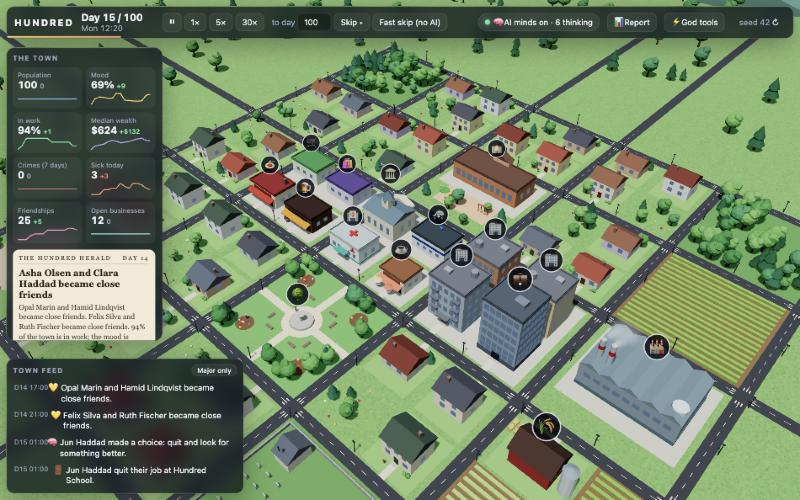
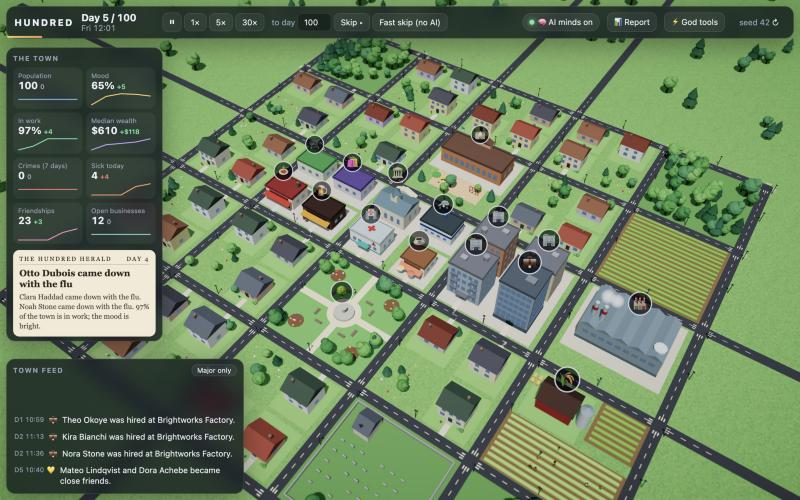
Lighting: fix flicker (smoothed windows, stable shadows, no z-fighting); add bloom, tilt-shift and vignette with a graphics toggle

diff --git a/src/render/scene.ts b/src/render/scene.ts
@@ -1,7 +1,40 @@
 // Renderer, lighting and the day/night cycle. Reads sim state, never writes it.
 import * as THREE from 'three';
+import { EffectComposer } from 'three/examples/jsm/postprocessing/EffectComposer.js';
+import { OutputPass } from 'three/examples/jsm/postprocessing/OutputPass.js';
+import { RenderPass } from 'three/examples/jsm/postprocessing/RenderPass.js';
+import { ShaderPass } from 'three/examples/jsm/postprocessing/ShaderPass.js';
+import { UnrealBloomPass } from 'three/examples/jsm/postprocessing/UnrealBloomPass.js';
 import type { Building, Sim, World } from '../sim/types';
 import { type City, buildCity } from './city';
+
+// Final grade: miniature-style tilt-shift when zoomed out, plus a soft vignette. Runs on linear
+// HDR colour just before tone mapping.
+const GradeShader = {
+  uniforms: { tDiffuse: { value: null as THREE.Texture | null }, resolution: { value: new THREE.Vector2(1, 1) }, tilt: { value: 0 }, vignette: { value: 0.3 } },
+  vertexShader: 'varying vec2 vUv; void main() { vUv = uv; gl_Position = projectionMatrix * modelViewMatrix * vec4(position, 1.0); }',
+  fragmentShader: `
+    uniform sampler2D tDiffuse; uniform vec2 resolution; uniform float tilt; uniform float vignette;
+    varying vec2 vUv;
+    void main() {
+      float band = smoothstep(0.14, 0.62, abs(vUv.y - 0.52));
+      float r = tilt * band * 5.5;
+      vec3 c = texture2D(tDiffuse, vUv).rgb;
+      if (r > 0.08) {
+        vec3 sum = c; float w = 1.0;
+        for (int i = 0; i < 12; i++) {
+          float a = float(i) * 2.39996;
+          float d = sqrt((float(i) + 0.5) / 12.0);
+          vec2 o = vec2(cos(a), sin(a)) * d * r / resolution;
+          sum += texture2D(tDiffuse, vUv + o).rgb; w += 1.0;
+        }
+        c = sum / w;
+      }
+      vec2 q = vUv - 0.5;
+      c *= 1.0 - vignette * dot(q, q) * 2.4;
+      gl_FragColor = vec4(c, 1.0);
+    }`,
+};
 
 interface Key { h: number; sky: number; fog: number; sun: number; sunI: number; hemiI: number; ground: number; }
 // Keyframes across the day. Hours wrap at 24.
@@ -25,7 +58,14 @@ export interface View {
   /** 0 in full daylight, 1 at night. */
   night: number;
   setTime(hourFloat: number, focus: THREE.Vector3): void;
+  /** Decide which windows should be lit (a few times a second). */
   updateWindows(sim: Sim): void;
+  /** Fade windows towards their targets (every frame). */
+  animateWindows(dt: number): void;
+  /** Draw the frame. `camDist` drives the tilt-shift amount. */
+  render(camDist: number): void;
+  fx: boolean;
+  setFx(on: boolean): void;
   updateSmoke(dt: number, active: boolean): void;
   /** Swap in a freshly generated town (new seed). */
   loadWorld(world: World): void;
@@ -49,11 +89,13 @@ export function createView(canvas: HTMLCanvasElement, world: World): View {
   scene.add(hemi);
   const sun = new THREE.DirectionalLight(0xffffff, 3);
   sun.castShadow = true;
-  sun.shadow.mapSize.set(2048, 2048);
+  // The shadow frustum covers the whole town and never follows the camera. A frustum that
+  // moves without snapping to shadow-map texels makes shadow edges crawl and shimmer.
+  sun.shadow.mapSize.set(4096, 4096);
   const sc = sun.shadow.camera;
-  sc.left = -46; sc.right = 46; sc.top = 46; sc.bottom = -46; sc.near = 10; sc.far = 220;
-  sun.shadow.bias = -0.0006;
-  sun.shadow.normalBias = 0.04;
+  sc.left = -54; sc.right = 54; sc.top = 54; sc.bottom = -54; sc.near = 10; sc.far = 260;
+  sun.shadow.bias = -0.0004;
+  sun.shadow.normalBias = 0.05;
   scene.add(sun, sun.target);
 
   let city = buildCity(world);
@@ -77,6 +119,8 @@ export function createView(canvas: HTMLCanvasElement, world: World): View {
     return m;
   };
   const sunDisc = disc(0xfff3c4, 9), moonDisc = disc(0xdfe6ff, 6);
+  (sunDisc.material as THREE.MeshBasicMaterial).color.multiplyScalar(2.4); // above 1 so bloom picks them up
+  (moonDisc.material as THREE.MeshBasicMaterial).color.multiplyScalar(1.6);
 
   // Factory smoke: a small pool of soft sprites.
   const smokeTex = (() => {
@@ -95,13 +139,26 @@ export function createView(canvas: HTMLCanvasElement, world: World): View {
     smoke.push({ s, age: Math.random() * 6, life: 6, src: i % Math.max(1, city.smokeAt.length) });
   }
 
+  // Post-processing: multisampled HDR target -> bloom -> grade -> tone mapping and sRGB output.
+  const target = new THREE.WebGLRenderTarget(1, 1, { type: THREE.HalfFloatType, samples: 4 });
+  const composer = new EffectComposer(renderer, target);
+  composer.addPass(new RenderPass(scene, camera));
+  const bloom = new UnrealBloomPass(new THREE.Vector2(512, 512), 0.4, 0.55, 1.05);
+  composer.addPass(bloom);
+  const grade = new ShaderPass(GradeShader);
+  composer.addPass(grade);
+  composer.addPass(new OutputPass());
+
   const cA = new THREE.Color(), cB = new THREE.Color();
   const lerpHex = (a: number, b: number, t: number, into: THREE.Color) => into.copy(cA.set(a)).lerp(cB.set(b), t);
   const lit = new THREE.Color(), unlit = new THREE.Color(0x2b3a4d), glass = new THREE.Color(0x5d7f9c), tmp = new THREE.Color();
   const occupied = new Uint8Array(256);
+  const occEma = new Float32Array(256); // smoothed occupancy, so a person walking past does not toggle a window
+  let winTarget = new Float32Array(0), winBright = new Float32Array(0), lastWinNight = -1;
+  const darkC = new THREE.Color(), litC = new THREE.Color();
 
   const view: View = {
-    renderer, scene, camera, city, night: 0,
+    renderer, scene, camera, city, night: 0, fx: true,
     setTime(h, focus) {
       let i = 0;
       while (i < KEYS.length - 2 && h >= (KEYS[i + 1] as Key).h) i++;
@@ -121,8 +178,9 @@ export function createView(canvas: HTMLCanvasElement, world: World): View {
       const arc = isDay ? dayT : ((h + 24 - 19.5) % 24) / 10.5;
       const ang = arc * Math.PI;
       const dx = Math.cos(ang) * 0.85, dy = Math.max(0.16, Math.sin(ang)), dz = 0.45;
-      sun.position.set(focus.x + dx * 110, dy * 110, focus.z + dz * 110);
-      sun.target.position.set(focus.x, 0, focus.z);
+      void focus;
+      sun.position.set(dx * 110, dy * 110, dz * 110);
+      sun.target.position.set(0, 0, 0);
       const far = 380;
       (isDay ? sunDisc : moonDisc).position.set(camera.position.x + dx * far, Math.sin(ang) * far * 0.8 - 20, camera.position.z + dz * far);
       sunDisc.visible = isDay; moonDisc.visible = !isDay;
@@ -131,29 +189,61 @@ export function createView(canvas: HTMLCanvasElement, world: World): View {
       view.night = night;
       (stars.material as THREE.PointsMaterial).opacity = Math.max(0, night - 0.3) * 1.3;
       stars.position.copy(camera.position);
-      (city.lampGlow.material as THREE.MeshBasicMaterial).opacity = night * 0.55;
-      (city.lampBulbs.material as THREE.MeshBasicMaterial).color.setHex(night > 0.25 ? 0xffe9b0 : 0x6a6f78);
+      (city.lampGlow.material as THREE.MeshBasicMaterial).opacity = night * 0.42;
+      // Lamp bulbs ramp up smoothly (no hard switch) and go above 1 so they bloom.
+      const lamp = Math.min(1, Math.max(0, (night - 0.15) / 0.5));
+      (city.lampBulbs.material as THREE.MeshBasicMaterial).color.setHex(0x6a6f78).lerp(cA.set(0xffe9b0).multiplyScalar(4), lamp);
+      bloom.strength = 0.14 + night * 0.5;
       renderer.toneMappingExposure = 1.0 + night * 0.25;
     },
     updateWindows(s) {
-      // A building's windows glow when someone is inside after dark.
+      // Which windows want to be lit. Occupancy is smoothed and each window has hysteresis, so
+      // lights come on gradually through dusk and do not flicker as people move around.
       occupied.fill(0);
       for (const a of s.agents) if (a.status === 'active' && a.tripFrom < 0 && a.action !== 'sleep') occupied[a.at] = Math.min(255, (occupied[a.at] as number) + 1);
+      for (let b = 0; b < occEma.length; b++) occEma[b] = (occEma[b] as number) + ((occupied[b] as number) - (occEma[b] as number)) * 0.2;
       const n = view.night;
       const w = city.windows;
+      if (winTarget.length !== w.count) { winTarget = new Float32Array(w.count); winBright = new Float32Array(w.count); lastWinNight = -1; }
       for (let i = 0; i < w.count; i++) {
         const b = city.windowBuilding[i] as number;
         const seed = city.windowSeed[i] as number;
-        const people = occupied[b] as number;
+        const people = occEma[b] as number;
         const kind = (s.world.buildings[b] as Building).kind;
-        const share = people === 0 ? 0 : kind === 'house' ? 0.75 : Math.min(0.9, 0.25 + people * 0.09);
-        if (n > 0.2 && seed < share) {
-          lit.setHex(seed * 7 % 1 < 0.2 ? 0xfff1cf : 0xffcf7a);
-          w.setColorAt(i, tmp.copy(glass).lerp(lit, Math.min(1, n * 1.4)));
-        } else w.setColorAt(i, tmp.copy(glass).lerp(unlit, 0.35 + n * 0.65));
+        const share = people < 0.15 ? 0 : kind === 'house' ? 0.75 : Math.min(0.9, 0.25 + people * 0.09);
+        const onset = 0.2 + ((seed * 13.7) % 1) * 0.6; // windows light at different moments of dusk
+        const was = (winTarget[i] as number) > 0.5;
+        winTarget[i] = n > onset && seed < share + (was ? 0.1 : 0) ? 1 : 0;
+      }
+    },
+    animateWindows(dt) {
+      const w = city.windows;
+      if (winTarget.length !== w.count) return;
+      const n = view.night;
+      const k = Math.min(1, dt * 2.2);
+      let moving = Math.abs(n - lastWinNight) > 0.004;
+      for (let i = 0; i < w.count; i++) {
+        const d = (winTarget[i] as number) - (winBright[i] as number);
+        if (Math.abs(d) > 0.002) { winBright[i] = (winBright[i] as number) + d * k; moving = true; }
+        else if (d !== 0) { winBright[i] = winTarget[i] as number; moving = true; }
+      }
+      if (!moving) return;
+      lastWinNight = n;
+      darkC.copy(glass).lerp(unlit, 0.35 + n * 0.65);
+      for (let i = 0; i < w.count; i++) {
+        const br = winBright[i] as number;
+        if (br < 0.003) { w.setColorAt(i, darkC); continue; }
+        litC.setHex(((city.windowSeed[i] as number) * 7) % 1 < 0.2 ? 0xfff1cf : 0xffcf7a);
+        w.setColorAt(i, tmp.copy(darkC).lerp(litC, br).multiplyScalar(1 + br * 1.05)); // above 1 so lit windows bloom
       }
       if (w.instanceColor) w.instanceColor.needsUpdate = true;
     },
+    render(camDist) {
+      if (!view.fx) { renderer.render(scene, camera); return; }
+      grade.uniforms.tilt!.value = THREE.MathUtils.smoothstep(camDist, 30, 95) * 0.85;
+      composer.render();
+    },
+    setFx(on) { view.fx = on; },
     updateSmoke(dt, active) {
       if (city.smokeAt.length === 0) return;
       for (const p of smoke) {
@@ -188,6 +278,9 @@ export function createView(canvas: HTMLCanvasElement, world: World): View {
     resize() {
       const w = canvas.clientWidth, h = canvas.clientHeight;
       renderer.setSize(w, h, false);
+      composer.setSize(w, h);
+      const buf = renderer.getDrawingBufferSize(new THREE.Vector2());
+      grade.uniforms.resolution!.value.copy(buf);
       camera.aspect = w / Math.max(1, h);
       camera.updateProjectionMatrix();
     },

diff --git a/src/ui/ui.ts b/src/ui/ui.ts
@@ -12,6 +12,8 @@ import { describeAction, intentionText, moodEmoji } from './describe';
 export interface App {
   sim: Sim;
   speed: number;
+  fx: boolean;
+  setFx(on: boolean): void;
   skipping: boolean;
   selected: number;
   selectedBuilding: number;
@@ -301,6 +303,8 @@ export function createUI(root: HTMLElement, app: App): UI {
         <button data-g="flu">🦠 Flu outbreak<small>A dozen people fall ill</small></button>
         <button data-g="police">🚓 Double the police<small>More arrests, fewer escapes</small></button>
       </div>
+      <h3 style="margin-top:14px">Graphics</h3>
+      <div class="tools"><button data-g="fx">✨ Bloom &amp; tilt-shift: <b>${app.fx ? 'on' : 'off'}</b><small>Turn off on slower GPUs</small></button></div>
       <h3 style="margin-top:14px">AI minds</h3>
       <div class="kv"><span>Model calls per sim day</span><b class="num" id="bud-v">${app.sim.budget}</b></div>
       <input type="range" id="bud" min="0" max="${CFG.budgetMax}" value="${app.sim.budget}" />
@@ -315,6 +319,7 @@ export function createUI(root: HTMLElement, app: App): UI {
     else if (g === 'stimulus') godStimulus(sim);
     else if (g === 'flu') godFluOutbreak(sim);
     else if (g === 'police') godDoublePolice(sim);
+    else if (g === 'fx') { app.setFx(!app.fx); renderGod(); }
   });
   god.addEventListener('input', (e) => {
     const t = e.target as HTMLInputElement;

diff --git a/src/render/city.ts b/src/render/city.ts
@@ -121,7 +121,7 @@ export function buildCity(world: World): City {
   /** Window on a wall of the current building. side: 0 front(+z) 1 back 2 right(+x) 3 left. */
   const win = (building: number, side: number, along: number, y: number, depth: number, w: number, h: number) => {
     const ry = [0, Math.PI, Math.PI / 2, -Math.PI / 2][side] as number;
-    const off = depth + 0.012;
+    const off = depth + 0.03;
     const lx = side === 0 ? along : side === 1 ? along : side === 2 ? off : -off;
     const lz = side === 0 ? off : side === 1 ? -off : along;
     wq.setFromAxisAngle(up, ry);
@@ -512,7 +512,7 @@ export function buildCity(world: World): City {
   group.add(hills.build(new THREE.MeshStandardMaterial({ vertexColors: true, roughness: 1, flatShading: true }), false));
   for (const d of waterDiscs) group.add(d);
 
-  const winMesh = new THREE.InstancedMesh(new THREE.PlaneGeometry(1, 1), new THREE.MeshBasicMaterial({ toneMapped: false }), windows.length);
+  const winMesh = new THREE.InstancedMesh(new THREE.PlaneGeometry(1, 1), new THREE.MeshBasicMaterial({ toneMapped: false, polygonOffset: true, polygonOffsetFactor: -4, polygonOffsetUnits: -4 }), windows.length);
   const windowBuilding = new Int16Array(windows.length);
   const windowSeed = new Float32Array(windows.length);
   const dark = new THREE.Color(0x2b3a4d);

diff --git a/src/main.ts b/src/main.ts
@@ -49,7 +49,7 @@ const voiceCache = new Map<string, { text: string; by: 'llm' | 'rule' }>();
 
 const app: App = {
   sim: freshSim(urlSeed > 0 ? Math.floor(urlSeed) : 42, CFG.budgetDefault),
-  speed: 1, skipping: false, selected: -1, selectedBuilding: -1, following: false,
+  speed: 1, fx: true, setFx(on) { app.fx = on; view.setFx(on); }, skipping: false, selected: -1, selectedBuilding: -1, following: false,
   ai: llm.state, holding: false,
   setSpeed(n) { app.speed = n; if (app.skipping) app.stopSkip(); },
   skipTo(day, fast) {
@@ -306,8 +306,9 @@ function loop(now: number): void {
     view.updateWindows(sim);
     ui.refresh();
   }
+  view.animateWindows(dt);
   // While skipping, most frame time goes to the sim; draw every third frame.
-  if (!app.skipping || frame % 3 === 0) view.renderer.render(view.scene, view.camera);
+  if (!app.skipping || frame % 3 === 0) view.render(d);
 }
 
 window.addEventListener('resize', () => view.resize());

diff --git a/README.md b/README.md
@@ -13,6 +13,7 @@ It is a static site. No backend, no API keys, no paid services, no downloaded ar
 ## What you get
 
 - **A living 3D town.** About 55 procedural buildings (houses, apartments, school, clinic, police station, town hall, shops, bar, factory, office, farm, park, pond, woods, cemetery), with a day and night cycle, lamps, lit windows and factory smoke.
+- **Cinematic lighting.** HDR bloom makes lamps and lit windows glow, lights fade on and off gradually through dusk instead of popping, shadows stay stable as you move, and a tilt-shift blur gives the zoomed-out town a miniature look. Bloom and tilt-shift can be switched off under God tools on slower GPUs.
 - **People who look like people.** Head, hair, eyes, torso, arms, legs and shoes, in different skin tones, hairstyles, heights and clothes. Children carry backpacks, police and clinic staff wear uniforms, seniors stoop, and the sick slump. They walk, sit on park benches and sway when idle.
 - **City to street in one scroll.** Tilt follows zoom: top-down from afar, near eye level up close. Click anyone to inspect them, or press `F` to follow.
 - **Lives that interact.** Everyone has a home, a temperament, needs, money worries, friends and rivals. They work, fall out, fall in love, move in together, get sick, lose jobs, steal, get arrested, and sometimes leave town while newcomers arrive.
@@ -76,7 +77,7 @@ The default is **12 automatic calls per sim day** (adjustable from 0 to 30), enf
 
 - The per-minute tick **never waits** on the model. Dilemmas give people up to 60 sim minutes to mull before the rule choice applies. At 30x and Skip, the clock holds at dawn for the night's batch, with a 20 second timeout.
 - Every model decision is logged. A run can be replayed exactly from its log, even though the model is not deterministic (a test checks this).
-- Measured on one machine: about 0.5 s per call. A full 100-day run with AI on takes roughly 6 to 8 minutes of wall time at the default budget, while Fast skip takes about 10 seconds. Lower the budget to trade intelligence for speed.
+- Measured on one machine: about 0.5 s per call. A full 100-day run with AI on takes roughly 6 to 11 minutes of wall time at the default budget, while Fast skip takes about 10 seconds. Lower the budget to trade intelligence for speed.
 - The model is small. Its prose can embellish, so the report keeps a rule-written summary at the top and labels the model's chronicle.
 
 ## The Day 100 report
@@ -130,10 +131,10 @@ It is a static site: build with `npm run build` and serve `dist/`. Asset paths a
 - **Vercel:** import the repo (`vercel.json` is included) or run `npx vercel`.
 - **Netlify, Cloudflare Pages, GitHub Pages:** build command `npm run build`, output directory `dist`.
 
-The first visit downloads the model (hundreds of MB) from Hugging Face's CDN, which is the only network request the app makes. WebLLM then keeps it in the browser cache.
+The first visit downloads the model (hundreds of MB) from Hugging Face's CDN, which is the only network request the app makes. WebLLM then keeps it in the browser's Cache Storage for that site, so it survives closing the tab and is only removed if you clear the site's data.
 
 ## Tech
 
-Vite, TypeScript (strict), Three.js (`WebGLRenderer`), Vitest, WebLLM, and hand-rolled SVG charts. The UI is vanilla DOM and CSS with no framework.
+Vite, TypeScript (strict), Three.js (`WebGLRenderer` with an HDR post-processing chain), Vitest, WebLLM, and hand-rolled SVG charts. The UI is vanilla DOM and CSS with no framework.
 
 `plan.md` holds the full design and milestone history.
